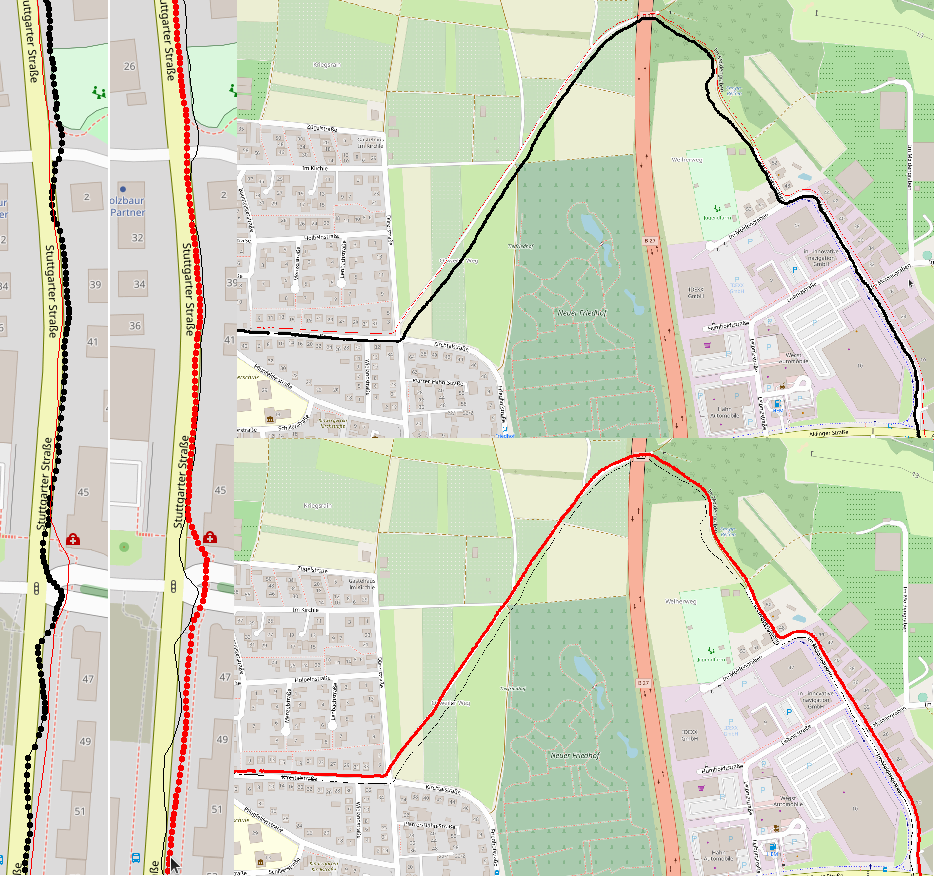
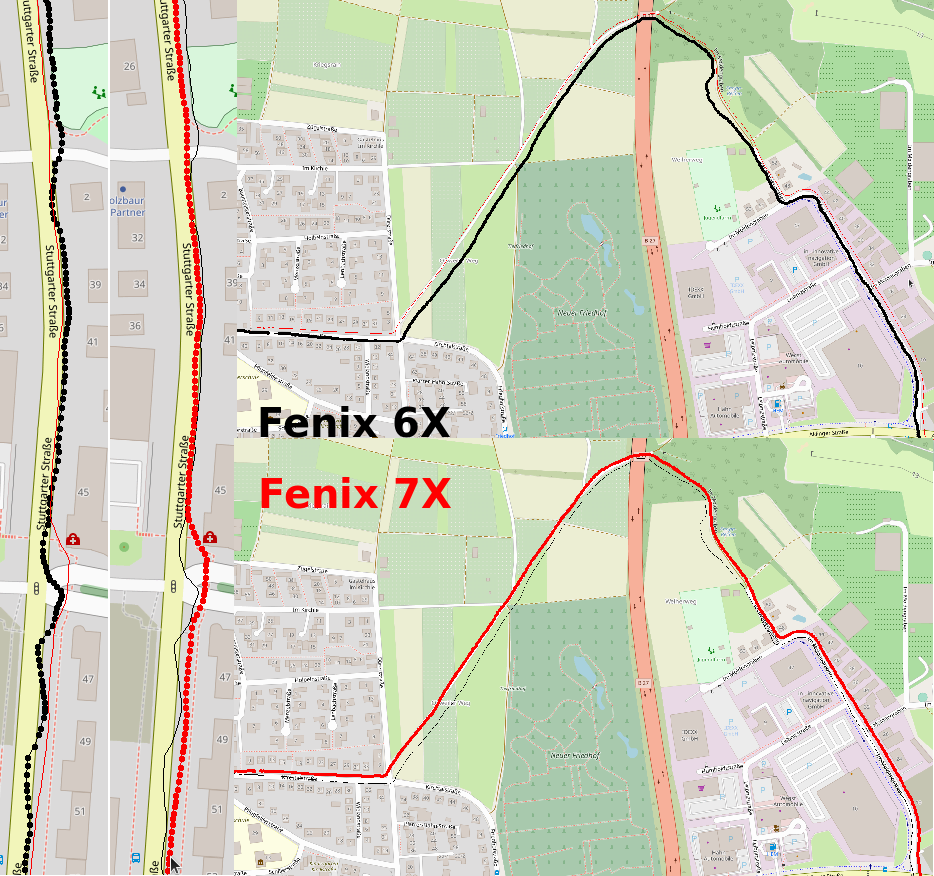
Details zum 2022-02-03

Changed region(s): [[0.2794, 0.4623, 0.4968, 0.5856], [0.2794, 0.524, 0.4036, 0.5856]]

diff --git a/garmin-6x-7x/2022-02-03.md b/garmin-6x-7x/2022-02-03.md
@@ -1,0 +1,18 @@
+2022-02-03 - Fenix 6X Pro Sapphire und Fenix 7X
+===============================================
+
+Am 2022-02-03 bin ich hier in Kornwestheim mit der
+Garmin 6X und der 7X gelaufen. Die 6X am rechten Arm, die 7X links.
+
+![Vergleich 6X-7X](/images/2022-02-03_vergleich.png)
+
+Meine Wertung:
+
+- die 7X zeichnet viel "glatter" auf
+- tendenziell liegt der Track auch genauer auf dem Weg
+
+Ob's nur an einer besseren Rundung/Glättung liegt, kann ich noch nicht sagen.
+Ich tippe eher: Nein, weil auch die Kurven nicht abgeschnitten werden. Ich beobachte das noch ein wenig...
+
+- [GPX-Track Garmin 6X](/data/2022-02-03_6x.gpx)
+- [GPX-Track Garmin 7X](/data/2022-02-03_7x.gpx)

diff --git a/garmin-6x-7x/index.md b/garmin-6x-7x/index.md
@@ -16,7 +16,7 @@ TBD
 Details
 -------
 
-TBD
+- [2022-02-03 - Fenix 6X Pro Sapphire und Fenix 7X](2022-02-03.md)
 
 GPX-Dateien und Vergleichsbilder
 --------------------------------
